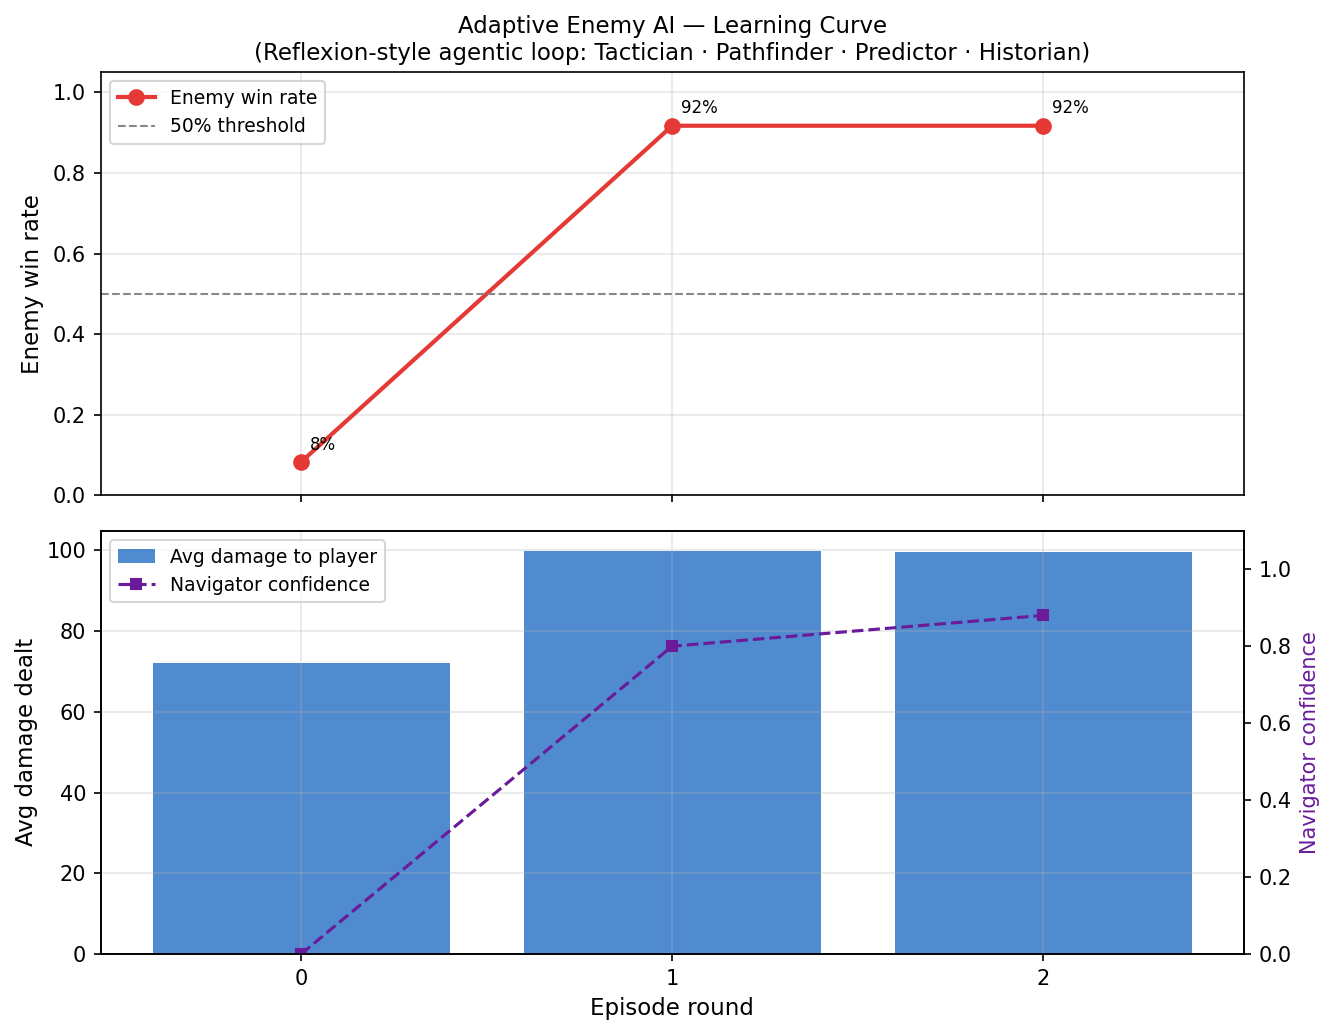
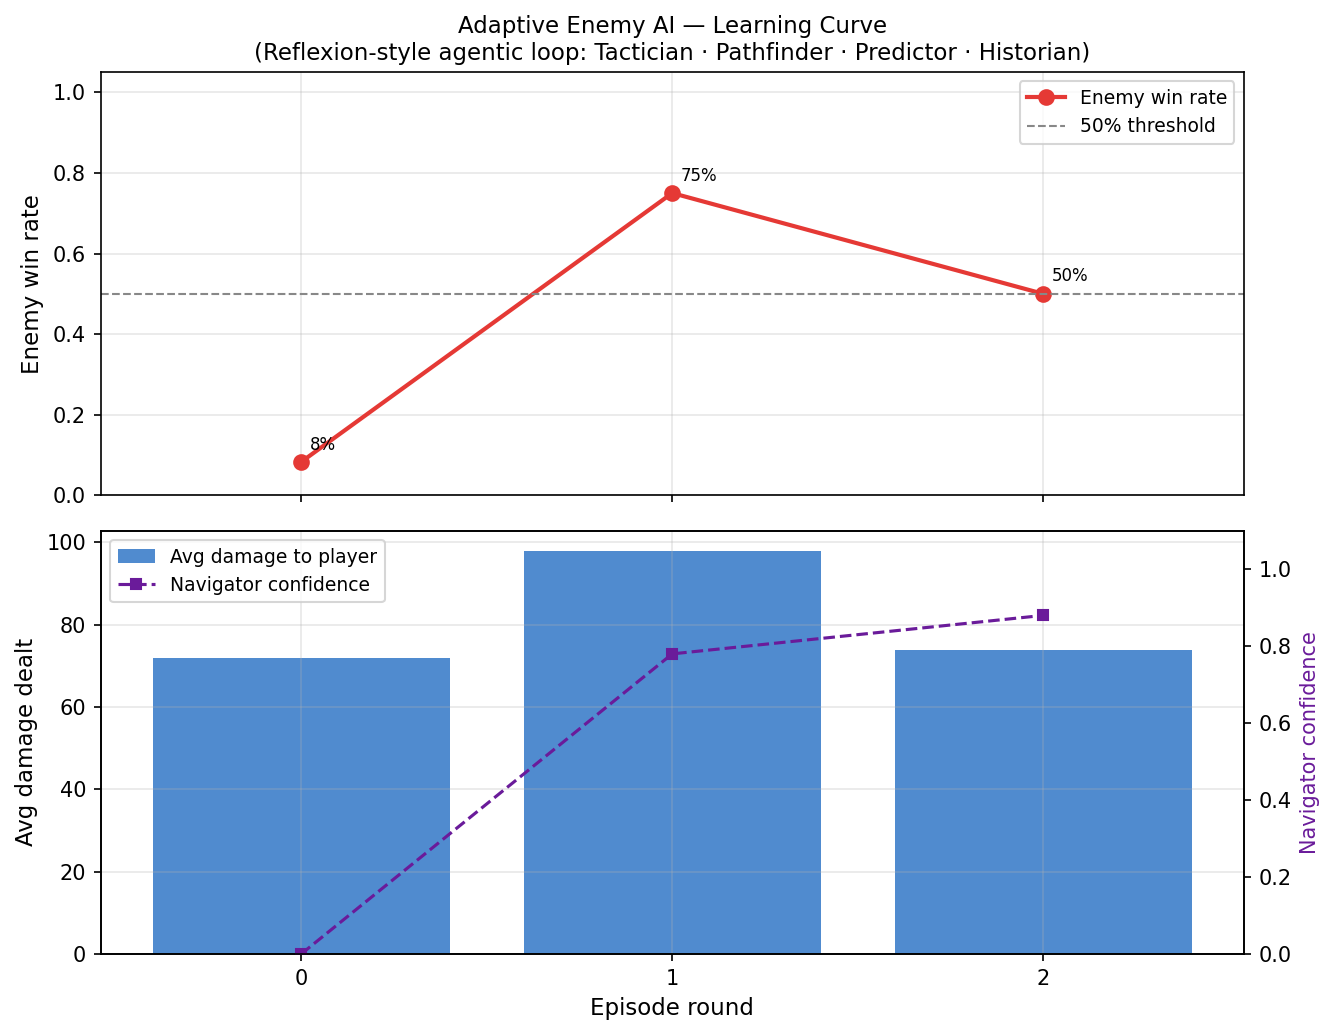
Improve enemy AI decision-making and learning efficiency
Refactor AI to improve attribution discipline, reduce premature stopping, and refine enemy AI parameters based on performance metrics.

Replit-Commit-Author: Agent
Replit-Commit-Session-Id: 97a296b3-38b7-406e-bac4-22ed8a404daa
Replit-Commit-Checkpoint-Type: full_checkpoint
Replit-Commit-Event-Id: c59d7e3a-fc52-42b1-b7ab-bf6f65b5d540
Replit-Helium-Checkpoint-Created: true

diff --git a/examples/11_adaptive_enemy_ai.py b/examples/11_adaptive_enemy_ai.py
@@ -435,6 +435,10 @@ Your job:
 3. Rate your confidence (0–1) that the selected changes will improve win_rate
 4. Note: win_rate={metrics['win_rate']}, aim > 0.5 eventually
 
+Attribution discipline: if win_rate is already above 0.4 and showing clear improvement,
+prefer 1-2 changes over 3. Fewer simultaneous changes let the next round reason over
+cleaner causal evidence — you'll know which change actually moved the needle.
+
 Stop condition: if confidence >= 0.82 AND win_rate >= 0.4, declare the policy good.
 
 Reply ONLY with valid JSON:
@@ -730,9 +734,18 @@ def adaptive_enemy_loop():
         print(f"  New metrics: win_rate={metrics['win_rate']}  "
               f"avg_dmg={metrics['avg_damage']}  avg_turns={metrics['avg_turns']}")
 
-        if nav["stop"] or nav["confidence"] >= CONFIDENCE_THRESHOLD:
-            print(f"\n  ✅ Navigator satisfied (conf={nav['confidence']:.3f}) — stopping.")
+        # Only honour the Navigator's stop signal if the observed post-eval
+        # metrics actually support it — prevents stopping on a regression
+        # caused by the very changes the Navigator just declared "good enough".
+        nav_wants_stop = nav["stop"] or nav["confidence"] >= CONFIDENCE_THRESHOLD
+        results_support_stop = metrics["win_rate"] >= 0.4
+        if nav_wants_stop and results_support_stop:
+            print(f"\n  ✅ Navigator satisfied (conf={nav['confidence']:.3f},"
+                  f" win_rate={metrics['win_rate']}) — stopping.")
             break
+        elif nav_wants_stop and not results_support_stop:
+            print(f"\n  ⚠️  Navigator wanted to stop (conf={nav['confidence']:.3f})"
+                  f" but observed win_rate={metrics['win_rate']} < 0.4 — continuing.")
 
     return log, policy, metrics
 